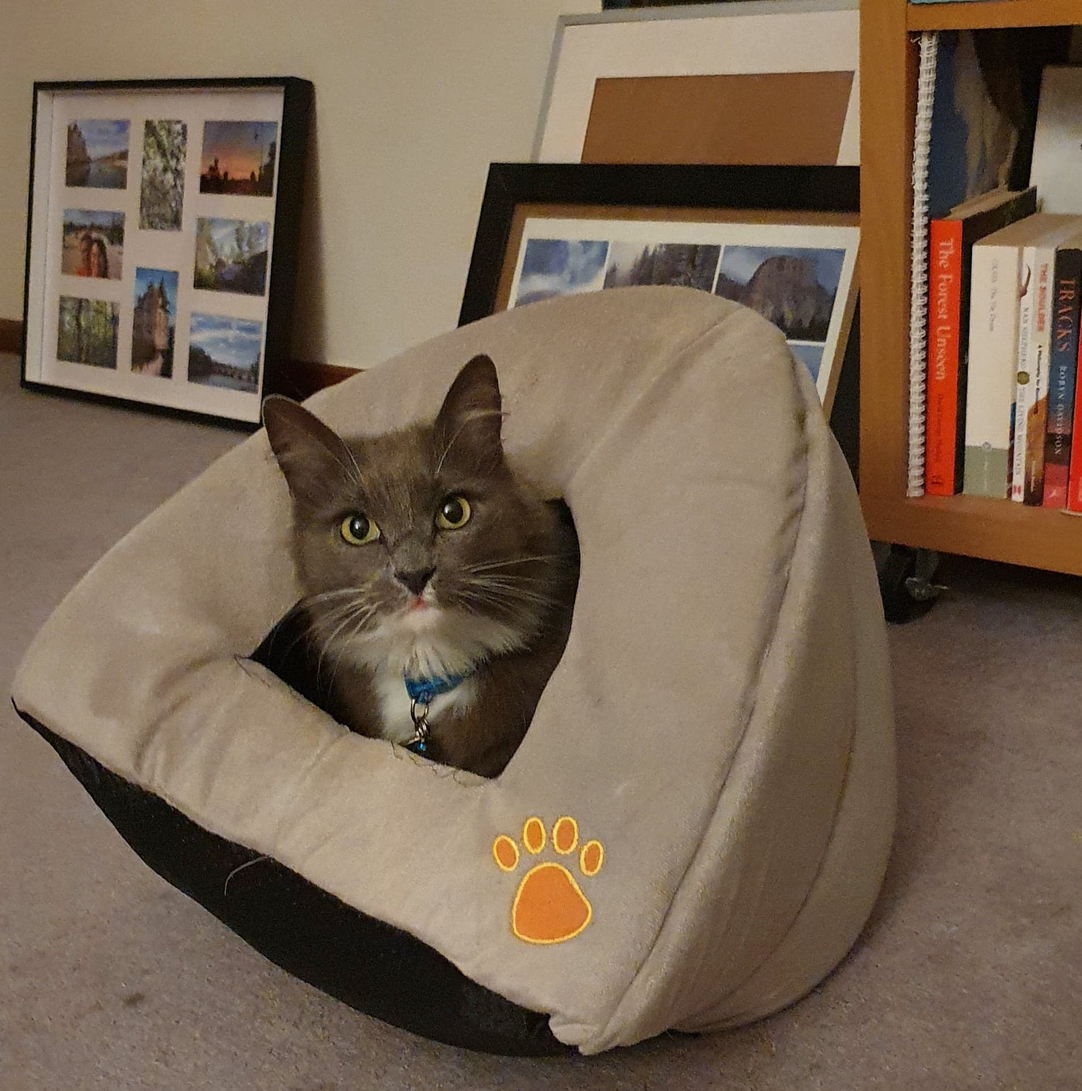
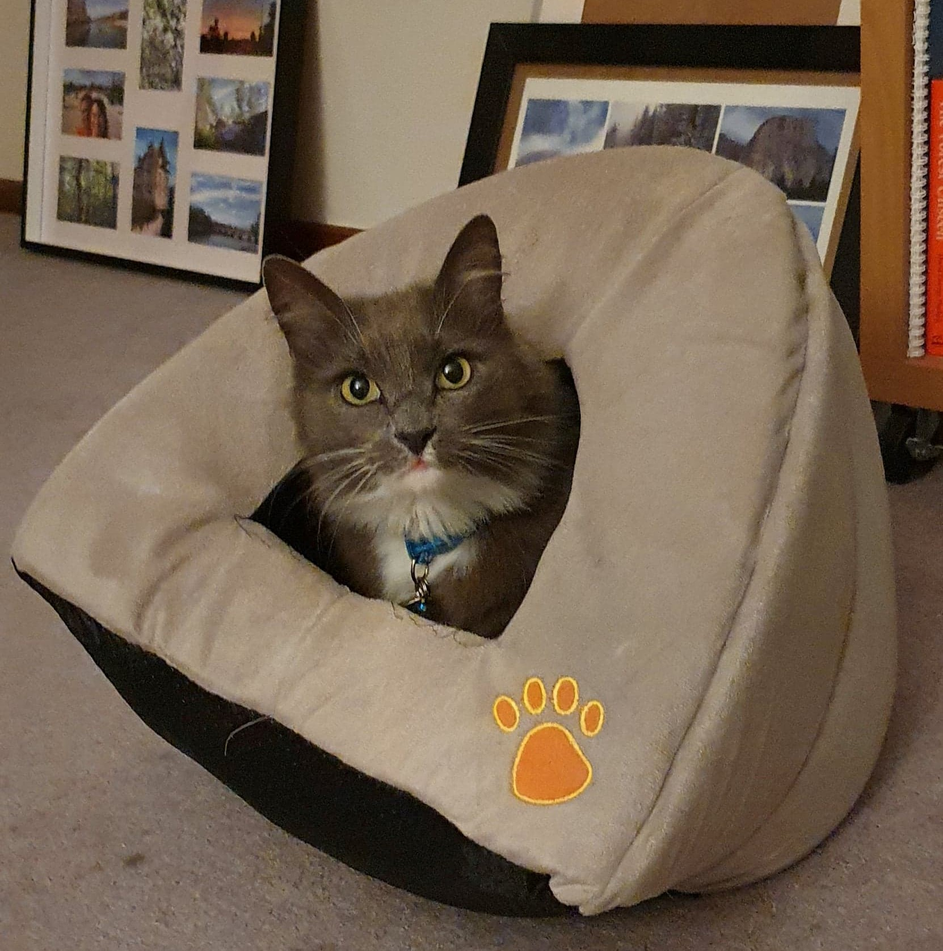
cropped toby images

diff --git a/client/src/components/Modals/TobyModal/index.js b/client/src/components/Modals/TobyModal/index.js
@@ -6,7 +6,6 @@ import toby2 from '../../../assets/images/toby_2.jpg';
 import toby3 from '../../../assets/images/toby_3.jpg';
 import toby4 from '../../../assets/images/toby_4.jpg';
 import toby5 from '../../../assets/images/toby_5.jpg';
-import toby6 from '../../../assets/images/toby_6.jpg';
 import toby7 from '../../../assets/images/toby_7.jpg';
 import toby8 from '../../../assets/images/toby_8.jpg';
 import toby9 from '../../../assets/images/toby_9.jpg';
@@ -23,7 +22,7 @@ export default function TobyModal({ timerState }) {
 
   const modalRef = useRef();
 
-  const tobyImages = [toby1, toby2, toby3, toby4, toby5, toby6, toby7, toby8, toby9, toby10, toby11, toby12, toby13, toby14, toby15, toby16]
+  const tobyImages = [toby1, toby2, toby3, toby4, toby5, toby7, toby8, toby9, toby10, toby11, toby12, toby13, toby14, toby15, toby16]
 
   if (timerState.mode === MODES.COMPLETED) {
     M.Modal.getInstance(modalRef.current).open()
